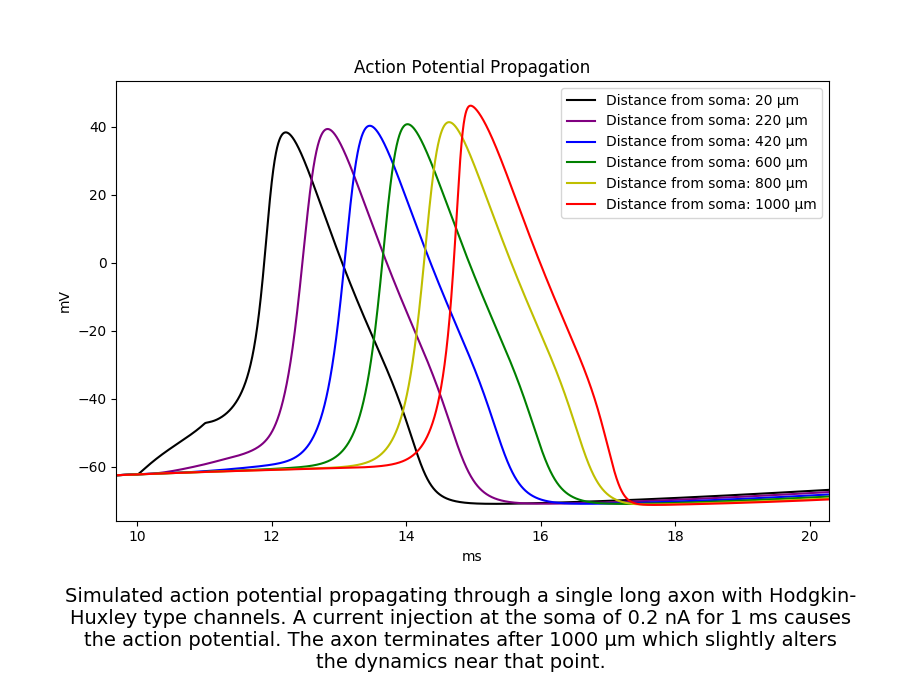
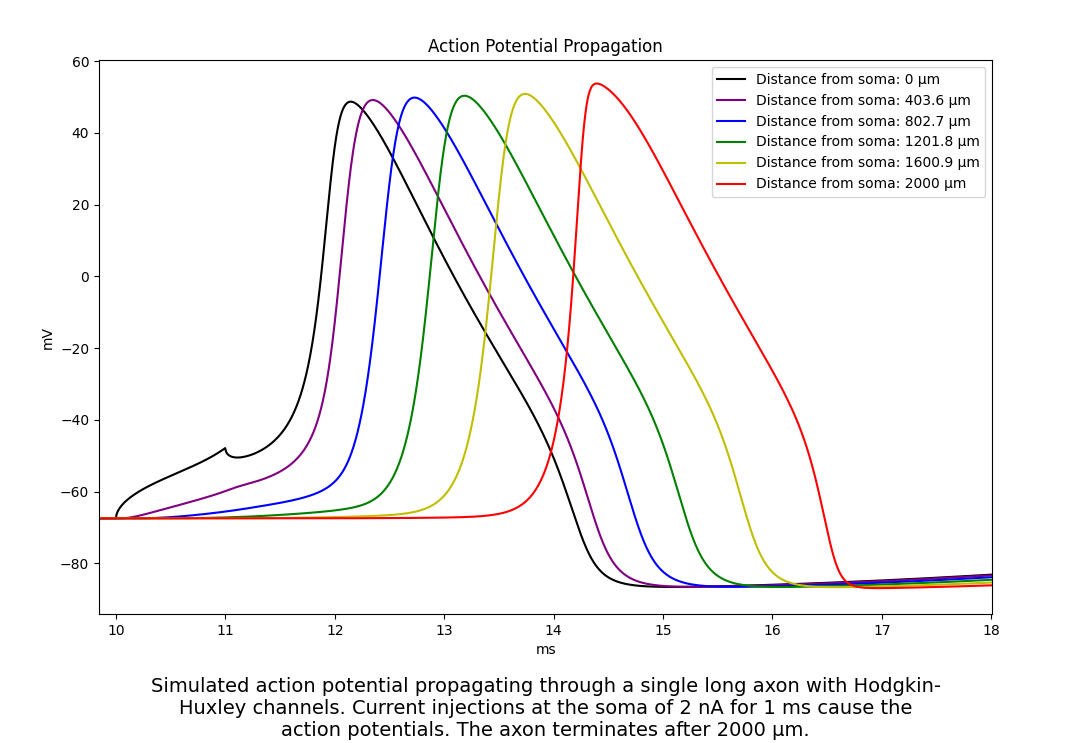
split HH propagation experiment out into its own file

diff --git a/neuwon/examples/Hodgkin_Huxley/propagation.py b/neuwon/examples/Hodgkin_Huxley/propagation.py
@@ -1,0 +1,93 @@
+from neuwon.database.time import TimeSeries
+from neuwon.model import Model
+import matplotlib.pyplot as plt
+import numpy as np
+
+class main:
+    def __init__(self,
+            axon_length   = 2000,
+            axon_diameter = .5,
+            soma_diameter = 9,
+            time_step     = 2.5e-3,
+            length_step   = 20,
+            num_probes    = 6,
+            stimulus      = 2e-9,
+        ):
+        self.time_step      = time_step
+        self.length_step    = length_step
+        self.axon_length    = axon_length
+        self.axon_diameter  = axon_diameter
+        self.soma_diameter  = soma_diameter
+        self.stimulus       = stimulus
+        self.num_probes     = num_probes
+        self.make_model()
+        self.init_steady_state()
+        self.setup_measurements()
+        self.run_experiment()
+        self.plot()
+        plt.show()
+
+    def make_model(self):
+        """ Construct a soma with a single long axon. """
+        self.model = m = Model(self.time_step, celsius = 6.3)
+        na_cls  = m.add_species("na", reversal_potential = +60)
+        k_cls   = m.add_species("k",  reversal_potential = -88)
+        l_cls   = m.add_species("l",  reversal_potential = -54.3,)
+        hh_cls  = m.add_reaction("./nmodl_library/hh.mod")
+        self.soma = m.Segment(None, [0,0,0], self.soma_diameter)
+        self.axon = m.Segment.make_section(self.soma,
+                [0,0,self.axon_length], self.axon_diameter,
+                maximum_segment_length=self.length_step)
+        self.segments = [self.soma] + self.axon
+        self.hh = [hh_cls(seg, scale=1) for seg in self.segments]
+        if True:
+            print("Number of Locations:", len(self.model))
+            sa_units = self.soma.get_database_class().get("surface_area").get_units()
+            sa = self.soma.surface_area
+            print("Soma surface area:", sa, sa_units)
+            sa += sum(x.surface_area for x in self.axon)
+            print("Total surface area:", sa, sa_units)
+
+    def init_steady_state(self):
+        while self.model.clock() < 40:
+            self.model.advance()
+        self.model.clock.reset()
+
+    def setup_measurements(self):
+        self.probe_segments = []
+        self.voltage_probes = []
+        self.m_probes       = []
+        for idx in np.linspace(0, len(self.segments)-1, self.num_probes):
+            idx     = round(idx)
+            segment = self.segments[idx]
+            hh      = self.hh[idx]
+            self.probe_segments.append(segment)
+            self.voltage_probes.append(TimeSeries().record(segment, "voltage"))
+            self.m_probes.append(TimeSeries().record(hh, "m"))
+
+    def run_experiment(self):
+        ap_times = [10, 25, 40]
+        while self.model.clock() < 50:
+            if ap_times and self.model.clock() >= ap_times[0]:
+                ap_times.pop(0)
+                self.soma.inject_current(self.stimulus, duration=1)
+            self.model.advance()
+        self.model.check()
+
+    def plot(self):
+        caption = f"""
+    Simulated action potential propagating through a single long axon with Hodgkin-
+    Huxley channels. Current injections at the soma of 2 nA for 1 ms cause the
+    action potentials. The axon terminates after {self.axon_length} μm."""
+        colors = 'k purple b g y r'.split()
+        plt.figure("AP Propagation")
+        for color, seg, v_data in zip(colors, self.probe_segments, self.voltage_probes):
+            dist = np.linalg.norm(np.subtract(self.soma.coordinates, seg.coordinates))
+            plt.plot(v_data.get_timestamps(), v_data.get_data(), color,
+                label="Distance from soma: %g μm"%(dist))
+        v_data.label_axes()
+        plt.legend()
+        plt.title("Action Potential Propagation")
+        plt.figtext(0.5, 0.01, caption, horizontalalignment='center', fontsize=14)
+
+if __name__ == "__main__": main()
